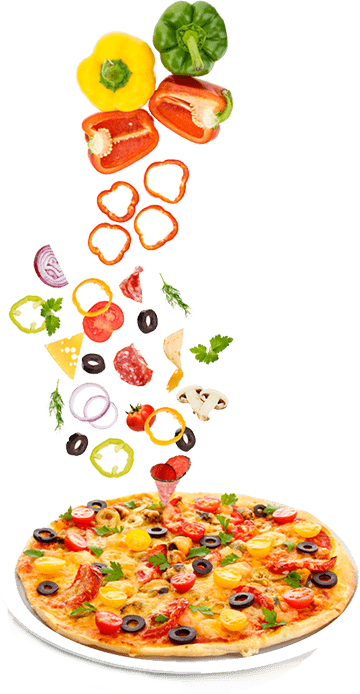
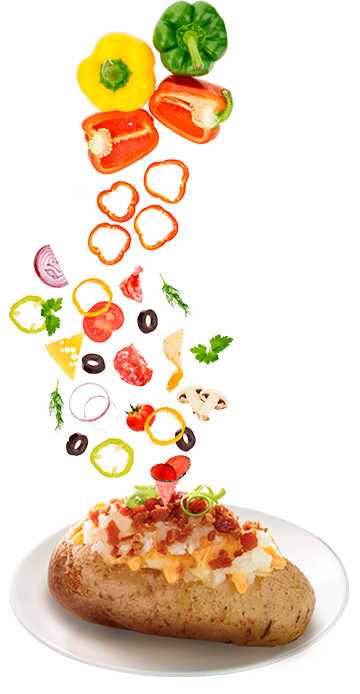
add about image

diff --git a/daca/fast-food-website-template/index.html b/daca/fast-food-website-template/index.html
@@ -60,13 +60,13 @@
                                         <div class="col-md-6 col-sm-12">
                                             <div class="wrapper">
                                                 <div class="content">
-                                                    <h1>your favourite food delivered & fresh</h1>
+                                                    <h1>Sua Batata Recheada Preferida</h1>
                                                     <h5>Lorem ipsum dolor sit, amet consectetur 
                                                     adipisicing elit. Consequuntur, natus magnam 
                                                     incidunt iste, architecto voluptate amet veniam 
                                                     odio, reiciendis modi</h5>
                                                     <ol>
-                                                        <li><a href="#">Order Now<span class="flaticon-right-arrow"></span></a></li>
+                                                        <li><a href="#">Pedir Agora<span class="flaticon-right-arrow"></span></a></li>
                                                     </ol>
                                                 </div>
                                             </div>
@@ -86,13 +86,13 @@
                                         <div class="col-md-6 col-sm-12">
                                             <div class="wrapper">
                                                 <div class="content">
-                                                    <h1>your favourite food delivered & fresh</h1>
+                                                    <h1>Sua Batata Recheada Preferida</h1>
                                                     <h5>Lorem ipsum dolor sit, amet consectetur 
                                                     adipisicing elit. Consequuntur, natus magnam 
                                                     incidunt iste, architecto voluptate amet veniam 
                                                     odio, reiciendis modi</h5>
                                                     <ol>
-                                                        <li><a href="#">Order Now<span class="flaticon-right-arrow"></span></a></li>
+                                                        <li><a href="#">Pedir Agora<span class="flaticon-right-arrow"></span></a></li>
                                                     </ol>
                                                 </div>
                                             </div>
@@ -112,13 +112,13 @@
                                         <div class="col-md-6 col-sm-12">
                                             <div class="wrapper">
                                                 <div class="content">
-                                                    <h1>your favourite food delivered & fresh</h1>
+                                                    <h1>Sua Batata Recheada Preferida</h1>
                                                     <h5>Lorem ipsum dolor sit, amet consectetur 
                                                     adipisicing elit. Consequuntur, natus magnam 
                                                     incidunt iste, architecto voluptate amet veniam 
                                                     odio, reiciendis modi</h5>
                                                     <ol>
-                                                        <li><a href="#">Order Now<span class="flaticon-right-arrow"></span></a></li>
+                                                        <li><a href="#">Pedir Agora<span class="flaticon-right-arrow"></span></a></li>
                                                     </ol>
                                                 </div>
                                             </div>
@@ -155,8 +155,8 @@
                                         <span class="flaticon-clock"></span>
                                     </div>
                                     <div class="sentence">
-                                    <strong>Today 10:00 am-7:00 pm</strong>
-                                    <p>Working Hours</p>
+                                    <strong> Terça à Domingo </strong>
+                                    <p>10:00 am-7:00 pm</p>
                                     </div>
                                 </div>
                             </div>
@@ -168,8 +168,8 @@
                                         <span class="flaticon-pin"></span>
                                     </div>
                                     <div class="sentence">
-                                    <strong>Arcadia USA</strong>
-                                    <p>Get Directions</p>
+                                    <strong>Porto PT</strong>
+                                    <p>Ver no mapa</p>
                                     </div>
                                 </div>
                             </div>
@@ -182,7 +182,7 @@
                                     </div>
                                     <div class="sentence">
                                     <strong>419-704-4407</strong>
-                                    <p>Call Online</p>
+                                    <p>Pedido por WhatsApp</p>
                                     </div>
                                 </div>
                             </div>
@@ -197,8 +197,8 @@
                     <div class="row">
                         <div class="col-12">
                             <div class="heading">
-                                <span>Menu</span>
-                                <h2>Explore Our Best Menu</h2>
+                                <span>Cardápio</span>
+                                <h2>Veja nossa variedade de sabores</h2>
                                 <p>Lorem ipsum dolor sit amet, consectetur adipisicing elit. 
                                 Asperiores officiis explicabo blanditiis consequuntur fugit 
                                 fugiat, incidunt totam consectetur veritatis minus corporis
@@ -235,136 +235,7 @@
                                         </div>
                                     </div>
                                 </div>
-                                <div class="col-md-4 col-sm-6">
-                                    <div class="wrapper">
-                                        <div class="tab-content">
-                                            <figure>
-                                                <img src="assets/images/menu/2.jpg">
-                                            </figure>
-                                            <div class="sentence">
-                                                <h3>Italian Source Mushroom<span>$12</span></h3>
-                                                <h6>Crab / Veggie / Soup</h6>
-                                                <p>Lorem ipsum dolor sit amet consectetur adipisicing elit. 
-                                                Repellendus unde fuga saepe accusantium hic iusto qui </p>
-                                            </div>
-                                            <div class="rate-box">
-                                                <ol>
-                                                    <li><span class="flaticon-star"></span></li>
-                                                    <li><span class="flaticon-star"></span></li>
-                                                    <li><span class="flaticon-star"></span></li>
-                                                    <li><span class="flaticon-star"></span></li>
-                                                </ol>
-                                                <div class="plus">
-                                                    <a><span class="flaticon-plus"></span></a>
-                                                </div>
-                                            </div>
-                                        </div>
-                                    </div>
-                                </div>
-                                <div class="col-md-4 col-sm-6">
-                                    <div class="wrapper">
-                                        <div class="tab-content">
-                                            <figure>
-                                                <img src="assets/images/menu/3.jpg">
-                                            </figure>
-                                            <div class="sentence">
-                                                <h3>Fried Potatoes With Garlic<span>$15</span></h3>
-                                                <h6>Crab / Veggie / Soup</h6>
-                                                <p>Lorem ipsum dolor sit amet consectetur adipisicing elit. 
-                                                Repellendus unde fuga saepe accusantium hic iusto qui </p>
-                                            </div>
-                                            <div class="rate-box">
-                                                <ol>
-                                                    <li><span class="flaticon-star"></span></li>
-                                                    <li><span class="flaticon-star"></span></li>
-                                                    <li><span class="flaticon-star"></span></li>
-                                                    <li><span class="flaticon-star"></span></li>
-                                                </ol>
-                                                <div class="plus">
-                                                    <a><span class="flaticon-plus"></span></a>
-                                                </div>
-                                            </div>
-                                        </div>
-                                    </div>
-                                </div>
-                                <div class="col-md-4 col-sm-6">
-                                    <div class="wrapper">
-                                        <div class="tab-content">
-                                            <figure>
-                                                <img src="assets/images/menu/4.jpg">
-                                            </figure>
-                                            <div class="sentence">
-                                                <h3>Fried Chicken Salad<span>$15</span></h3>
-                                                <h6>Crab / Veggie / Soup</h6>
-                                                <p>Lorem ipsum dolor sit amet consectetur adipisicing elit. 
-                                                Repellendus unde fuga saepe accusantium hic iusto qui </p>
-                                            </div>
-                                            <div class="rate-box">
-                                                <ol>
-                                                    <li><span class="flaticon-star"></span></li>
-                                                    <li><span class="flaticon-star"></span></li>
-                                                    <li><span class="flaticon-star"></span></li>
-                                                    <li><span class="flaticon-star"></span></li>
-                                                </ol>
-                                                <div class="plus">
-                                                    <a><span class="flaticon-plus"></span></a>
-                                                </div>
-                                            </div>
-                                        </div>
-                                    </div>
-                                </div>
-                                <div class="col-md-4 col-sm-6">
-                                    <div class="wrapper">
-                                        <div class="tab-content">
-                                            <figure>
-                                                <img src="assets/images/menu/5.jpg">
-                                            </figure>
-                                            <div class="sentence">
-                                                <h3>Fresh Crab With Lemon<span>$15</span></h3>
-                                                <h6>Crab / Veggie / Soup</h6>
-                                                <p>Lorem ipsum dolor sit amet consectetur adipisicing elit. 
-                                                Repellendus unde fuga saepe accusantium hic iusto qui </p>
-                                            </div>
-                                            <div class="rate-box">
-                                                <ol>
-                                                    <li><span class="flaticon-star"></span></li>
-                                                    <li><span class="flaticon-star"></span></li>
-                                                    <li><span class="flaticon-star"></span></li>
-                                                    <li><span class="flaticon-star"></span></li>
-                                                </ol>
-                                                <div class="plus">
-                                                    <a><span class="flaticon-plus"></span></a>
-                                                </div>
-                                            </div>
-                                        </div>
-                                    </div>
-                                </div>
-                                <div class="col-md-4 col-sm-6">
-                                    <div class="wrapper">
-                                        <div class="tab-content">
-                                            <figure>
-                                                <img src="assets/images/menu/6.jpg">
-                                            </figure>
-                                            <div class="sentence">
-                                                <h3>Grilled Salmon Sushi<span>$15</span></h3>
-                                                <h6>Crab / Veggie / Soup</h6>
-                                                <p>Lorem ipsum dolor sit amet consectetur adipisicing elit. 
-                                                Repellendus unde fuga saepe accusantium hic iusto qui </p>
-                                            </div>
-                                            <div class="rate-box">
-                                                <ol>
-                                                    <li><span class="flaticon-star"></span></li>
-                                                    <li><span class="flaticon-star"></span></li>
-                                                    <li><span class="flaticon-star"></span></li>
-                                                    <li><span class="flaticon-star"></span></li>
-                                                </ol>
-                                                <div class="plus">
-                                                    <a><span class="flaticon-plus"></span></a>
-                                                </div>
-                                            </div>
-                                        </div>
-                                    </div>
-                                </div>
+                                
                             </div>
                         </div>
                     </div>

diff --git a/daca/fast-food-website-template/assets/css/style.css b/daca/fast-food-website-template/assets/css/style.css
@@ -176,6 +176,12 @@ header {
 .slider {
   position: relative;
   padding: 0; }
+  .carousel-indicators .active {
+    background-color: #f29307;
+  }
+  .carousel-indicators li {
+    background-color: rgb(255 217 162);
+}
   .slider .shape {
     position: absolute;
     background: url(../images/shapes/shape.png);

diff --git a/daca/fast-food-website-template/assets/css/responsive.css b/daca/fast-food-website-template/assets/css/responsive.css
@@ -46,7 +46,6 @@
 }
 
 .menu ul .logo{
-    color:$icon-color;
     padding-left:0px;
     padding-right:10px;
     font-size:30px;
